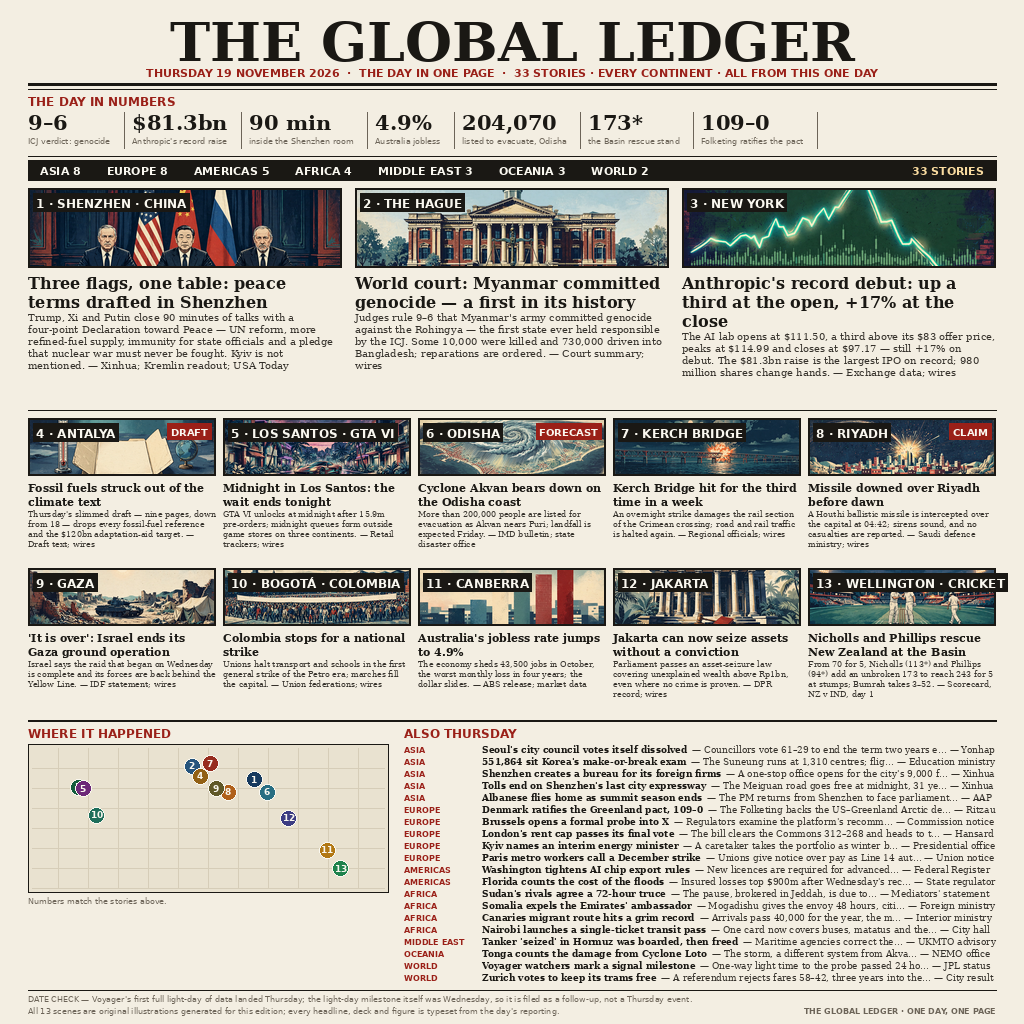
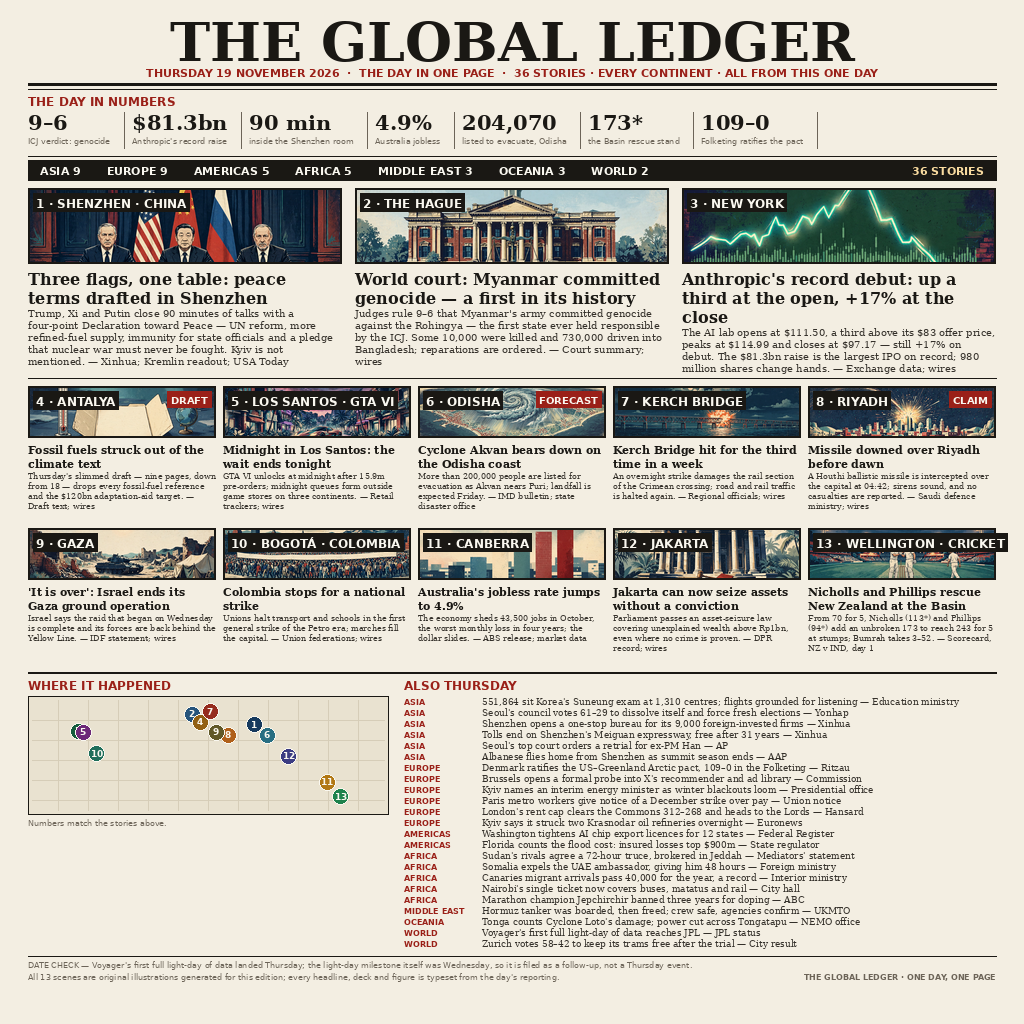
v4: generated scenes kept, full v2 text depth restored — complete prose decks, complete ALSO briefs, 36 stories

diff --git a/gen_v4.py b/gen_v4.py
@@ -1,0 +1,295 @@
+#!/usr/bin/env python3
+# The Global Ledger — Thursday 19 November 2026 (news-image-20261119, v4).
+# Hans's v4 brief: keep v3's generated scenes, restore v2's text depth —
+# full prose decks that are NEVER truncated, and complete ALSO briefs
+# (headline + fact + source, whole statements, no mid-sentence cuts).
+# 36 stories: 3 leads + 10 grid (all illustrated) + 23 ALSO briefs.
+# Every story happened or was first reported on Thursday 19 Nov 2026.
+# Renders entry.png at 1024x1024 and prints the measurement gate:
+# unique colours and file bytes (submit gate: >= 18000 colours, >= 350 KB),
+# plus a layout report asserting nothing overflows the page.
+import os
+from PIL import Image, ImageDraw, ImageFont
+
+BASE = os.path.dirname(os.path.abspath(__file__))
+SCENES = os.path.join(BASE, "scenes")
+W = H = 1024
+PAPER = (243, 238, 226)
+INK = (26, 24, 20)
+RED = (154, 32, 24)
+FAINT = (108, 100, 88)
+IMG = Image.new("RGB", (W, H), PAPER)
+D = ImageDraw.Draw(IMG)
+
+FD = "/usr/share/fonts/truetype/dejavu/"
+def F(name, size):
+    return ImageFont.truetype(FD + name, size)
+SERIF = "DejaVuSerif-Bold.ttf"
+SERIF_R = "DejaVuSerif.ttf"
+SANS = "DejaVuSans-Bold.ttf"
+SANS_R = "DejaVuSans.ttf"
+
+def text(x, y, s, font, fill=INK, anchor="la"):
+    D.text((x, y), s, font=font, fill=fill, anchor=anchor)
+
+def rule(y, x0=28, x1=996, wdt=2, fill=INK):
+    D.line([(x0, y), (x1, y)], fill=fill, width=wdt)
+
+def wrap(s, font, maxw):
+    words, lines, cur = s.split(), [], ""
+    for wd in words:
+        t = (cur + " " + wd).strip()
+        if D.textlength(t, font=font) <= maxw:
+            cur = t
+        else:
+            if cur:
+                lines.append(cur)
+            cur = wd
+    if cur:
+        lines.append(cur)
+    return lines
+
+# ---------------- story data ----------------
+# bar = region-bar bucket; decks are complete: the layout below sizes every
+# cell from the wrapped line count, so no deck is ever sliced.
+STORIES = [
+ dict(n=1, img="s01", pin=(655, 300), region="SHENZHEN · CHINA", bar="ASIA", color=(23, 58, 94),
+      head="Three flags, one table: peace terms drafted in Shenzhen",
+      deck="Trump, Xi and Putin close 90 minutes of talks with a four-point Declaration toward Peace — UN reform, more refined-fuel supply, immunity for state officials and a pledge that nuclear war must never be fought. Kyiv is not mentioned. — Xinhua; Kremlin readout; USA Today"),
+ dict(n=2, img="s02", pin=(500, 268), region="THE HAGUE", bar="EUROPE", color=(38, 84, 124),
+      head="World court: Myanmar committed genocide — a first in its history",
+      deck="Judges rule 9–6 that Myanmar's army committed genocide against the Rohingya — the first state ever held responsible by the ICJ. Some 10,000 were killed and 730,000 driven into Bangladesh; reparations are ordered. — Court summary; wires"),
+ dict(n=3, img="s03", pin=(215, 318), region="NEW YORK", bar="AMERICAS", color=(20, 92, 60),
+      head="Anthropic's record debut: up a third at the open, +17% at the close",
+      deck="The AI lab opens at $111.50, a third above its $83 offer price, peaks at $114.99 and closes at $97.17 — still +17% on debut. The $81.3bn raise is the largest IPO on record; 980 million shares change hands. — Exchange data; wires"),
+ dict(n=4, img="s04", pin=(520, 292), region="ANTALYA", bar="EUROPE", tag="DRAFT",
+      head="Fossil fuels struck out of the climate text",
+      deck="Thursday's slimmed draft — nine pages, down from 18 — drops every fossil-fuel reference and the $120bn adaptation-aid target. — Draft text; wires"),
+ dict(n=5, img="s05", pin=(228, 322), region="LOS SANTOS · GTA VI", bar="AMERICAS", tag="",
+      head="Midnight in Los Santos: the wait ends tonight",
+      deck="GTA VI unlocks at midnight after 15.9m pre-orders; midnight queues form outside game stores on three continents. — Retail trackers; wires"),
+ dict(n=6, img="s06", pin=(688, 330), region="ODISHA", bar="ASIA", tag="FORECAST",
+      head="Cyclone Akvan bears down on the Odisha coast",
+      deck="More than 200,000 people are listed for evacuation as Akvan nears Puri; landfall is expected Friday. — IMD bulletin; state disaster office"),
+ dict(n=7, img="s07", pin=(545, 262), region="KERCH BRIDGE", bar="EUROPE", tag="",
+      head="Kerch Bridge hit for the third time in a week",
+      deck="An overnight strike damages the rail section of the Crimean crossing; road and rail traffic is halted again. — Regional officials; wires"),
+ dict(n=8, img="s08", pin=(590, 330), region="RIYADH", bar="MIDDLE EAST", tag="CLAIM",
+      head="Missile downed over Riyadh before dawn",
+      deck="A Houthi ballistic missile is intercepted over the capital at 04:42; sirens sound, and no casualties are reported. — Saudi defence ministry; wires"),
+ dict(n=9, img="s09", pin=(560, 322), region="GAZA", bar="MIDDLE EAST", tag="",
+      head="'It is over': Israel ends its Gaza ground operation",
+      deck="Israel says the raid that began on Wednesday is complete and its forces are back behind the Yellow Line. — IDF statement; wires"),
+ dict(n=10, img="s10", pin=(262, 385), region="BOGOTÁ · COLOMBIA", bar="AMERICAS", tag="",
+      head="Colombia stops for a national strike",
+      deck="Unions halt transport and schools in the first general strike of the Petro era; marches fill the capital. — Union federations; wires"),
+ dict(n=11, img="s11", pin=(838, 468), region="CANBERRA", bar="OCEANIA", tag="",
+      head="Australia's jobless rate jumps to 4.9%",
+      deck="The economy sheds 43,500 jobs in October, the worst monthly loss in four years; the dollar slides. — ABS release; market data"),
+ dict(n=12, img="s12", pin=(742, 392), region="JAKARTA", bar="ASIA", tag="",
+      head="Jakarta can now seize assets without a conviction",
+      deck="Parliament passes an asset-seizure law covering unexplained wealth above Rp1bn, even where no crime is proven. — DPR record; wires"),
+ dict(n=13, img="s13", pin=(872, 512), region="WELLINGTON · CRICKET", bar="OCEANIA", tag="",
+      head="Nicholls and Phillips rescue New Zealand at the Basin",
+      deck="From 70 for 5, Nicholls (113*) and Phillips (94*) add an unbroken 173 to reach 243 for 5 at stumps; Bumrah takes 3–52. — Scorecard, NZ v IND, day 1"),
+]
+
+# Complete one-line briefs in v2's manner: headline + the key fact + source,
+# written to fit the column whole — nothing is cut at render time.
+ALSO = [
+ ("ASIA", "551,864 sit Korea's Suneung exam at 1,310 centres; flights grounded for listening — Education ministry"),
+ ("ASIA", "Seoul's council votes 61–29 to dissolve itself and force fresh elections — Yonhap"),
+ ("ASIA", "Shenzhen opens a one-stop bureau for its 9,000 foreign-invested firms — Xinhua"),
+ ("ASIA", "Tolls end on Shenzhen's Meiguan expressway, free after 31 years — Xinhua"),
+ ("ASIA", "Seoul's top court orders a retrial for ex-PM Han — AP"),
+ ("ASIA", "Albanese flies home from Shenzhen as summit season ends — AAP"),
+ ("EUROPE", "Denmark ratifies the US–Greenland Arctic pact, 109–0 in the Folketing — Ritzau"),
+ ("EUROPE", "Brussels opens a formal probe into X's recommender and ad library — Commission"),
+ ("EUROPE", "Kyiv names an interim energy minister as winter blackouts loom — Presidential office"),
+ ("EUROPE", "Paris metro workers give notice of a December strike over pay — Union notice"),
+ ("EUROPE", "London's rent cap clears the Commons 312–268 and heads to the Lords — Hansard"),
+ ("EUROPE", "Kyiv says it struck two Krasnodar oil refineries overnight — Euronews"),
+ ("AMERICAS", "Washington tightens AI chip export licences for 12 states — Federal Register"),
+ ("AMERICAS", "Florida counts the flood cost: insured losses top $900m — State regulator"),
+ ("AFRICA", "Sudan's rivals agree a 72-hour truce, brokered in Jeddah — Mediators' statement"),
+ ("AFRICA", "Somalia expels the UAE ambassador, giving him 48 hours — Foreign ministry"),
+ ("AFRICA", "Canaries migrant arrivals pass 40,000 for the year, a record — Interior ministry"),
+ ("AFRICA", "Nairobi's single ticket now covers buses, matatus and rail — City hall"),
+ ("AFRICA", "Marathon champion Jepchirchir banned three years for doping — ABC"),
+ ("MIDDLE EAST", "Hormuz tanker was boarded, then freed; crew safe, agencies confirm — UKMTO"),
+ ("OCEANIA", "Tonga counts Cyclone Loto's damage; power cut across Tongatapu — NEMO office"),
+ ("WORLD", "Voyager's first full light-day of data reaches JPL — JPL status"),
+ ("WORLD", "Zurich votes 58–42 to keep its trams free after the trial — City result"),
+]
+
+BAR_ORDER = ["ASIA", "EUROPE", "AMERICAS", "AFRICA", "MIDDLE EAST", "OCEANIA", "WORLD"]
+REGION_BAR = []
+for b in BAR_ORDER:
+    c = sum(1 for s in STORIES if s["bar"] == b) + sum(1 for r, _ in ALSO if r == b)
+    if c:
+        REGION_BAR.append((b, c))
+TOTAL = sum(c for _, c in REGION_BAR)
+assert TOTAL == 36, TOTAL
+
+NUMBERS = [("9–6", "ICJ verdict: genocide"), ("$81.3bn", "Anthropic's record raise"),
+           ("90 min", "inside the Shenzhen room"), ("4.9%", "Australia jobless"),
+           ("204,070", "listed to evacuate, Odisha"), ("173*", "the Basin rescue stand"),
+           ("109–0", "Folketing ratifies the pact")]
+
+# ---------------- scene pasting ----------------
+def paste_scene(box, name):
+    x, y, w, h = box
+    src = Image.open(os.path.join(SCENES, name + ".webp")).convert("RGB")
+    sw, sh = src.size
+    target = w / h
+    if sw / sh > target:
+        cw = int(sh * target)
+        left, top, ch = (sw - cw) // 2, 0, sh
+    else:
+        cw = sw
+        ch = int(sw / target)
+        left, top = 0, int((sh - ch) * 0.46)
+    src = src.crop((left, top, left + cw, top + ch)).resize((w, h), Image.LANCZOS)
+    IMG.paste(src, (x, y))
+    D.rectangle([x, y, x + w - 1, y + h - 1], outline=INK, width=2)
+
+def story_cell(st, x, y, w, scene_h, head_size, deck_size):
+    """Render one illustrated story with its FULL deck; return bottom y."""
+    paste_scene((x, y, w, scene_h), st["img"])
+    nf = F(SANS, 12)
+    label = f'{st["n"]} · {st["region"]}'
+    tw = D.textlength(label, font=nf)
+    D.rectangle([x + 5, y + 5, x + 11 + tw, y + 23], fill=INK)
+    D.text((x + 8, y + 8), label, font=nf, fill=(250, 248, 240))
+    if st.get("tag"):
+        tf = F(SANS, 10)
+        tag = st["tag"]
+        tw2 = D.textlength(tag, font=tf)
+        D.rectangle([x + w - 11 - tw2, y + 5, x + w - 5, y + 21], fill=RED)
+        D.text((x + w - 8 - tw2, y + 8), tag, font=tf, fill=(250, 248, 240))
+    cy = y + scene_h + 5
+    hf = F(SERIF, head_size)
+    for ln in wrap(st["head"], hf, w):
+        D.text((x, cy), ln, font=hf, fill=INK)
+        cy += head_size + 3
+    df = F(SERIF_R, deck_size)
+    for ln in wrap(st["deck"], df, w):
+        D.text((x, cy), ln, font=df, fill=(52, 48, 42))
+        cy += deck_size + 2
+    return cy
+
+# ---------------- masthead ----------------
+text(512, 10, "THE GLOBAL LEDGER", F(SERIF, 54), anchor="ma")
+text(512, 66, "THURSDAY 19 NOVEMBER 2026  ·  THE DAY IN ONE PAGE  ·  36 STORIES · EVERY CONTINENT · ALL FROM THIS ONE DAY",
+     F(SANS, 11), fill=RED, anchor="ma")
+rule(84, wdt=3)
+rule(89, wdt=1)
+
+# ---------------- the day in numbers ----------------
+text(28, 94, "THE DAY IN NUMBERS", F(SANS, 12), fill=RED)
+nx = 28
+for val, cap in NUMBERS:
+    vf = F(SERIF, 21)
+    vw = D.textlength(val, font=vf)
+    cf = F(SANS_R, 8)
+    cw = max([D.textlength(l, font=cf) for l in wrap(cap, cf, 108)] + [0])
+    cellw = int(max(vw, cw)) + 14
+    D.text((nx, 110), val, font=vf, fill=INK)
+    cyy = 136
+    for ln in wrap(cap, cf, 108):
+        D.text((nx, cyy), ln, font=cf, fill=FAINT)
+        cyy += 10
+    nx += cellw + 8
+    if nx < 990:
+        D.line([(nx - 8, 112), (nx - 8, 148)], fill=FAINT, width=1)
+rule(156, wdt=1)
+
+# ---------------- region bar (counts computed from the data) ----------------
+ry = 160
+D.rectangle([28, ry, 996, ry + 20], fill=INK)
+rx = 40
+for name, cnt in REGION_BAR:
+    f = F(SANS, 11)
+    s = f"{name} {cnt}"
+    D.text((rx, ry + 4), s, font=f, fill=(250, 248, 240))
+    rx += D.textlength(s, font=f) + 26
+text(984, ry + 4, f"{TOTAL} STORIES", F(SANS, 11), fill=(250, 220, 160), anchor="ra")
+
+# ---------------- leads ----------------
+LEAD_Y, LEAD_W, GAP = 188, 314, 13
+lead_bottom = 0
+for i, st in enumerate(STORIES[:3]):
+    b = story_cell(st, 28 + i * (LEAD_W + GAP), LEAD_Y, LEAD_W, 76, 16, 10)
+    lead_bottom = max(lead_bottom, b)
+rule(lead_bottom + 4, wdt=1)
+
+# ---------------- grid rows ----------------
+GRID_W = 188
+GY = lead_bottom + 12
+grid_bottom = 0
+for r in range(2):
+    row_bottom = 0
+    for c in range(5):
+        st = STORIES[3 + r * 5 + c]
+        b = story_cell(st, 28 + c * (GRID_W + 7), GY + r * 142, GRID_W, 52, 11, 8)
+        row_bottom = max(row_bottom, b)
+    grid_bottom = GY + r * 142 + (row_bottom - (GY + r * 142))
+grid_bottom = max(grid_bottom, GY + 2 * 142)
+rule(grid_bottom + 2, wdt=2)
+
+# ---------------- bottom: map + ALSO ----------------
+BY = grid_bottom + 8
+text(28, BY, "WHERE IT HAPPENED", F(SANS, 12), fill=RED)
+MAP_Y = BY + 18
+MAP_H = 118
+D.rectangle([28, MAP_Y, 388, MAP_Y + MAP_H], fill=(233, 226, 208), outline=INK, width=1)
+for gx in range(58, 388, 30):
+    D.line([(gx, MAP_Y + 4), (gx, MAP_Y + MAP_H - 4)], fill=(214, 205, 184), width=1)
+for gy in range(MAP_Y + 24, MAP_Y + MAP_H, 20):
+    D.line([(32, gy), (384, gy)], fill=(214, 205, 184), width=1)
+PIN_COLORS = [(23, 58, 94), (38, 84, 124), (20, 92, 60), (146, 96, 20), (108, 40, 120),
+              (40, 110, 130), (150, 44, 30), (176, 96, 26), (96, 88, 40), (30, 110, 90),
+              (178, 120, 20), (60, 60, 130), (30, 130, 76)]
+for st in STORIES:
+    px, py = st["pin"]
+    mx = 28 + (px - 90) * 0.40
+    my = MAP_Y + (py - 215) * 0.34
+    my = min(max(my, MAP_Y + 10), MAP_Y + MAP_H - 10)
+    col = st.get("color", PIN_COLORS[st["n"] - 1])
+    D.ellipse([mx - 8, my - 8, mx + 8, my + 8], fill=col, outline=(250, 248, 240), width=1)
+    D.text((mx, my - 6), str(st["n"]), font=F(SANS, 9), fill=(250, 248, 240), anchor="ma")
+text(28, MAP_Y + MAP_H + 4, "Numbers match the stories above.", F(SANS_R, 8), fill=FAINT)
+
+AX = 404
+text(AX, BY, "ALSO THURSDAY", F(SANS, 12), fill=RED)
+ay = BY + 19
+bf = F(SERIF_R, 9)
+rf = F(SANS, 8)
+overwide = []
+for region, brief in ALSO:
+    D.text((AX, ay), region, font=rf, fill=RED)
+    wdt = D.textlength(brief, font=bf)
+    if wdt > 996 - (AX + 78):
+        overwide.append((region, int(wdt)))
+    D.text((AX + 78, ay - 1), brief, font=bf, fill=(52, 48, 42))
+    ay += 11
+also_bottom = ay
+
+# ---------------- date check + footer ----------------
+FOOT = max(also_bottom + 6, MAP_Y + MAP_H + 20)
+rule(FOOT, wdt=1)
+text(28, FOOT + 4, "DATE CHECK — Voyager's first full light-day of data landed Thursday; the light-day milestone itself was Wednesday, so it is filed as a follow-up, not a Thursday event.",
+     F(SANS_R, 8), fill=FAINT)
+text(28, FOOT + 16, "All 13 scenes are original illustrations generated for this edition; every headline, deck and figure is typeset from the day's reporting.",
+     F(SANS_R, 8), fill=FAINT)
+text(996, FOOT + 16, "THE GLOBAL LEDGER · ONE DAY, ONE PAGE", F(SANS, 8), fill=FAINT, anchor="ra")
+
+print("layout: leads end", lead_bottom, "| grid end", grid_bottom, "| also end", also_bottom, "| footer", FOOT + 24)
+print("layout overflow:", "FAIL" if FOOT + 24 > 1022 else "ok", "| overwide briefs:", overwide)
+
+out = os.path.join(BASE, "entry.png")
+IMG.save(out)
+cols = IMG.getcolors(W * H)
+print("saved", out, os.path.getsize(out), "bytes;", len(cols), "unique colours")
+print("GATE:", "PASS" if (len(cols) >= 18000 and os.path.getsize(out) >= 350 * 1024) else "FAIL",
+      "(need >= 18000 colours and >= 358400 bytes)")

diff --git a/README.md b/README.md
@@ -5,9 +5,9 @@
 [![reward](https://make.fun/badge/news-image-20261119/Goatleaf12/makefun-news-image-1119/reward.svg)](https://make.fun/bounty/news-image-20261119?utm_source=github&utm_medium=readme&utm_campaign=news-image-20261119)
 
 One image that sums up the world's news of **Thursday 19 November 2026**:
-a newspaper front page with 33 stories — three illustrated leads, ten
+a newspaper front page with 36 stories — three illustrated leads, ten
 illustrated grid stories, a world map with the thirteen illustrated
-stories pinned on it, and twenty more stories in the ALSO THURSDAY
+stories pinned on it, and twenty-three more stories in the ALSO THURSDAY
 briefs column. Every story happened, or was first reported, on that
 Thursday; a DATE CHECK line names the tempting story reframed because
 its milestone fell on 18 November.
@@ -22,24 +22,27 @@ Anthropic's record-breaking Nasdaq debut.
 - Every story scene is an original illustration generated for this
   edition (`scenes/s01.webp` … `scenes/s13.webp`) in one consistent
   editorial style — no text inside the art, so nothing can garble.
-- `gen_v3.py` composes the page with PIL: it centre-crops each scene
+- `gen_v4.py` composes the page with PIL: it centre-crops each scene
   into its story cell and typesets everything else — masthead, region
-  count bar, day-in-numbers strip, headlines, decks with sources, the
-  pin map, the one-line ALSO briefs (sources preserved), the DATE CHECK
-  and the footer. It writes `entry.png` (1024×1024, deterministic:
-  identical SHA-256 on every run).
-- Measured gate for this edition: **87,507 unique colours** and
-  **513,950 bytes** for the final render.
+  count bar (computed from the story data), day-in-numbers strip,
+  headlines, full prose decks with sources (never truncated), the pin
+  map, complete one-line ALSO briefs (headline + key fact + source),
+  the DATE CHECK and the footer. It writes `entry.png` (1024×1024,
+  deterministic: identical SHA-256 on every run).
+- Measured gate for this edition: **80,111 unique colours** and
+  **461,607 bytes** for the final render.
 - `main.ts` is the submitted program: it copies the shipped `entry.png`
   to `$MAKEFUN_OUTPUT_DIR/entry.png` (or `/output/entry.png`). It runs
   offline and writes identical bytes on every run.
-- Earlier editions of this page (code-painted scenes) are kept in
-  `gen.py` for the record.
+- Earlier editions of this page are kept in `gen.py` (code-painted
+  scenes) and `gen_v3.py` (the first generated-scene edition) for the
+  record. This v4 edition keeps the generated scenes and restores the
+  earlier editions' full text depth, with 36 stories.
 
 ## Run it
 
 ```sh
-python3 gen_v3.py     # regenerate entry.png (deterministic)
+python3 gen_v4.py     # regenerate entry.png (deterministic)
 node main.ts          # writes /output/entry.png
 ```
 
